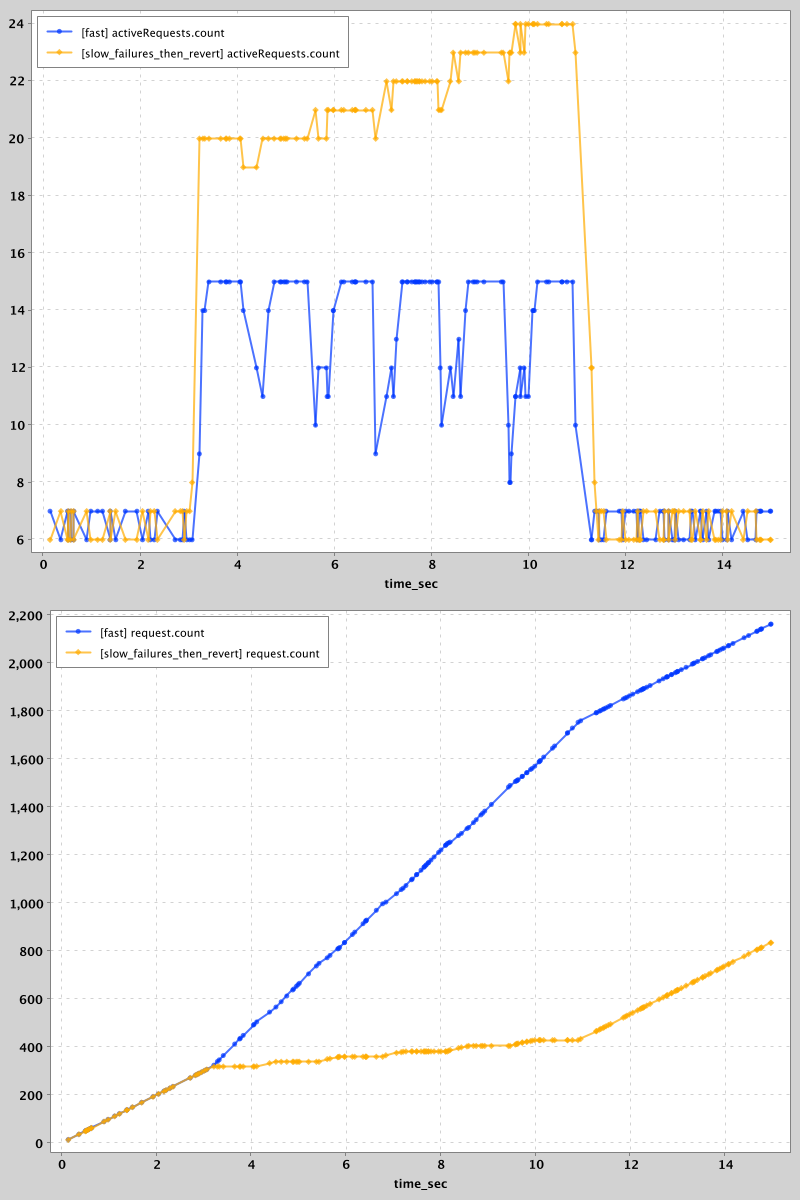
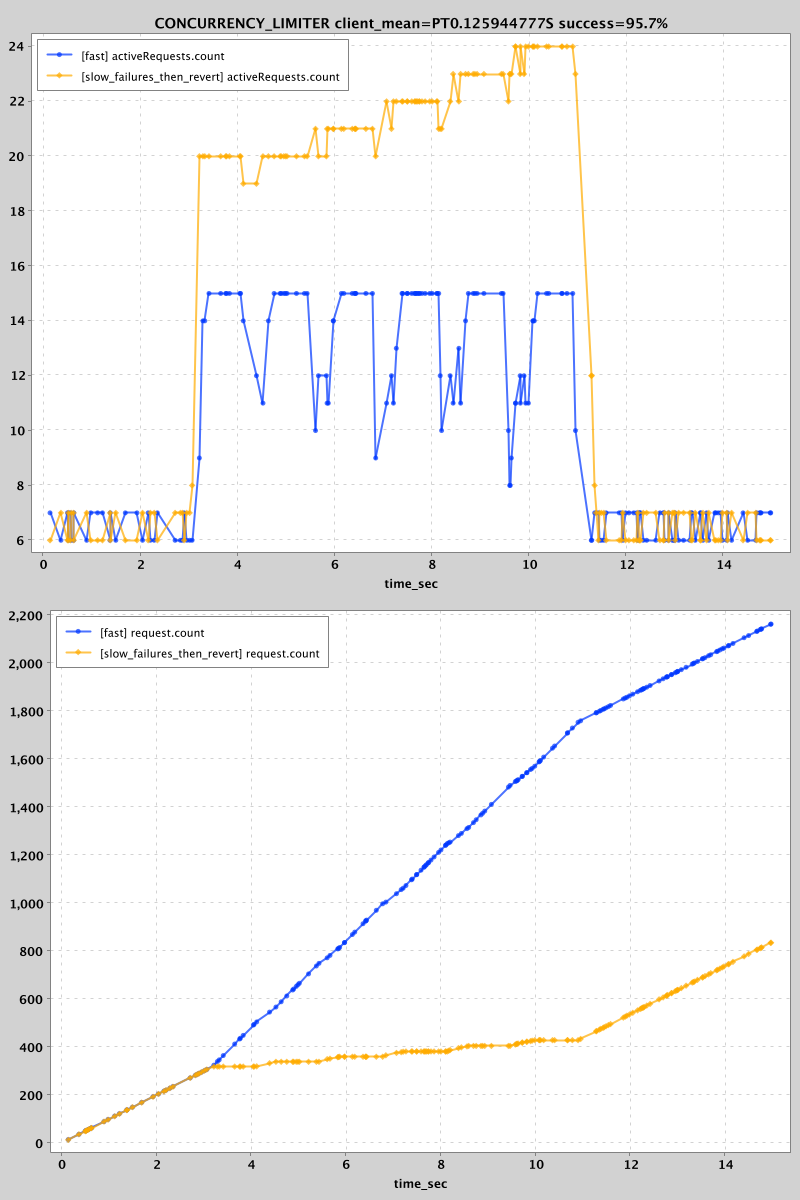
Charts include som key stats

diff --git a/simulation/src/test/java/com/palantir/dialogue/core/SimulationTest.java b/simulation/src/test/java/com/palantir/dialogue/core/SimulationTest.java
@@ -41,6 +41,7 @@ import org.junit.Test;
 import org.junit.rules.TestName;
 import org.junit.runner.RunWith;
 import org.junit.runners.Parameterized;
+import org.knowm.xchart.XYChart;
 
 /**
  * The following sccenarios are probably worth testing.
@@ -65,18 +66,19 @@ import org.junit.runners.Parameterized;
 public class SimulationTest {
     private static final Endpoint endpoint = mock(Endpoint.class);
 
-    @Rule
-    public final TestName testName = new TestName();
-
-    Simulation simulation = new Simulation();
-
     @Parameterized.Parameters(name = "{0}")
     public static Strategy[] data() {
         return Strategy.values();
     }
 
+    @Rule
+    public final TestName testName = new TestName();
+
     @Parameterized.Parameter
     public Strategy strategy;
+
+    private final Simulation simulation = new Simulation();
+    private Benchmark.BenchmarkResult result;
 
     public enum Strategy {
         LOWEST_UTILIZATION(SimulationTest::lowestUtilization),
@@ -115,7 +117,7 @@ public class SimulationTest {
 
         Channel channel = strategy.getChannel.apply(simulation, servers);
 
-        Benchmark.builder()
+        result = Benchmark.builder()
                 .numRequests(2000)
                 .requestsPerSecond(50)
                 .channel(i -> channel.execute(endpoint, request("req-" + i)))
@@ -151,7 +153,7 @@ public class SimulationTest {
 
         Channel channel = strategy.getChannel.apply(simulation, servers);
 
-        Benchmark.builder()
+        result = Benchmark.builder()
                 .numRequests(3000) // something weird happens at 1811... bug in DeterministicScheduler?
                 .requestsPerSecond(200)
                 .channel(i -> channel.execute(endpoint, request("req-" + i)))
@@ -161,11 +163,16 @@ public class SimulationTest {
 
     @After
     public void after() {
-        SimulationMetrics metrics = simulation.metrics();
-        SimulationMetrics.png(
-                testName.getMethodName() + ".png",
-                metrics.chart(Pattern.compile("active")),
-                metrics.chart(Pattern.compile("request.*count")));
+        String title = String.format(
+                "%s client_mean=%s success=%s%%",
+                strategy, Duration.ofNanos((long) result.clientHistogram().getMean()), result.successPercentage());
+
+        XYChart chart1 = simulation.metrics().chart(Pattern.compile("active"));
+        chart1.setTitle(title);
+
+        XYChart chart2 = simulation.metrics().chart(Pattern.compile("request.*count"));
+
+        SimulationMetrics.png(testName.getMethodName() + ".png", chart1, chart2);
     }
 
     private static Response response(int status) {
@@ -179,13 +186,11 @@ public class SimulationTest {
     }
 
     private static Channel lowestUtilization(Simulation sim, Channel... channels) {
-        ImmutableList<LimitedChannel> chans =
-                Arrays.stream(channels)
-                        .map(SimulationTest::noOpLimitedChannel)
-                        .map(c -> new BlacklistingChannel(c, Duration.ofSeconds(10), sim.clock()))
-                        .collect(ImmutableList.toImmutableList());
-        LimitedChannel idea =
-                new PreferLowestUtilization(chans, sim.clock(), SimulationUtils.DETERMINISTIC);
+        ImmutableList<LimitedChannel> chans = Arrays.stream(channels)
+                .map(SimulationTest::noOpLimitedChannel)
+                .map(c -> new BlacklistingChannel(c, Duration.ofSeconds(10), sim.clock()))
+                .collect(ImmutableList.toImmutableList());
+        LimitedChannel idea = new PreferLowestUtilization(chans, sim.clock(), SimulationUtils.DETERMINISTIC);
         return dontTolerateLimits(idea);
     }
 

diff --git a/simulation/src/main/java/com/palantir/dialogue/core/SimulationMetrics.java b/simulation/src/main/java/com/palantir/dialogue/core/SimulationMetrics.java
@@ -168,7 +168,6 @@ final class SimulationMetrics {
         XYChart chart = new XYChartBuilder()
                 .width(800)
                 .height(600)
-                // .title(getClass().getSimpleName())
                 .xAxisTitle(X_AXIS)
                 // .yAxisTitle("Y axis")
                 .build();
